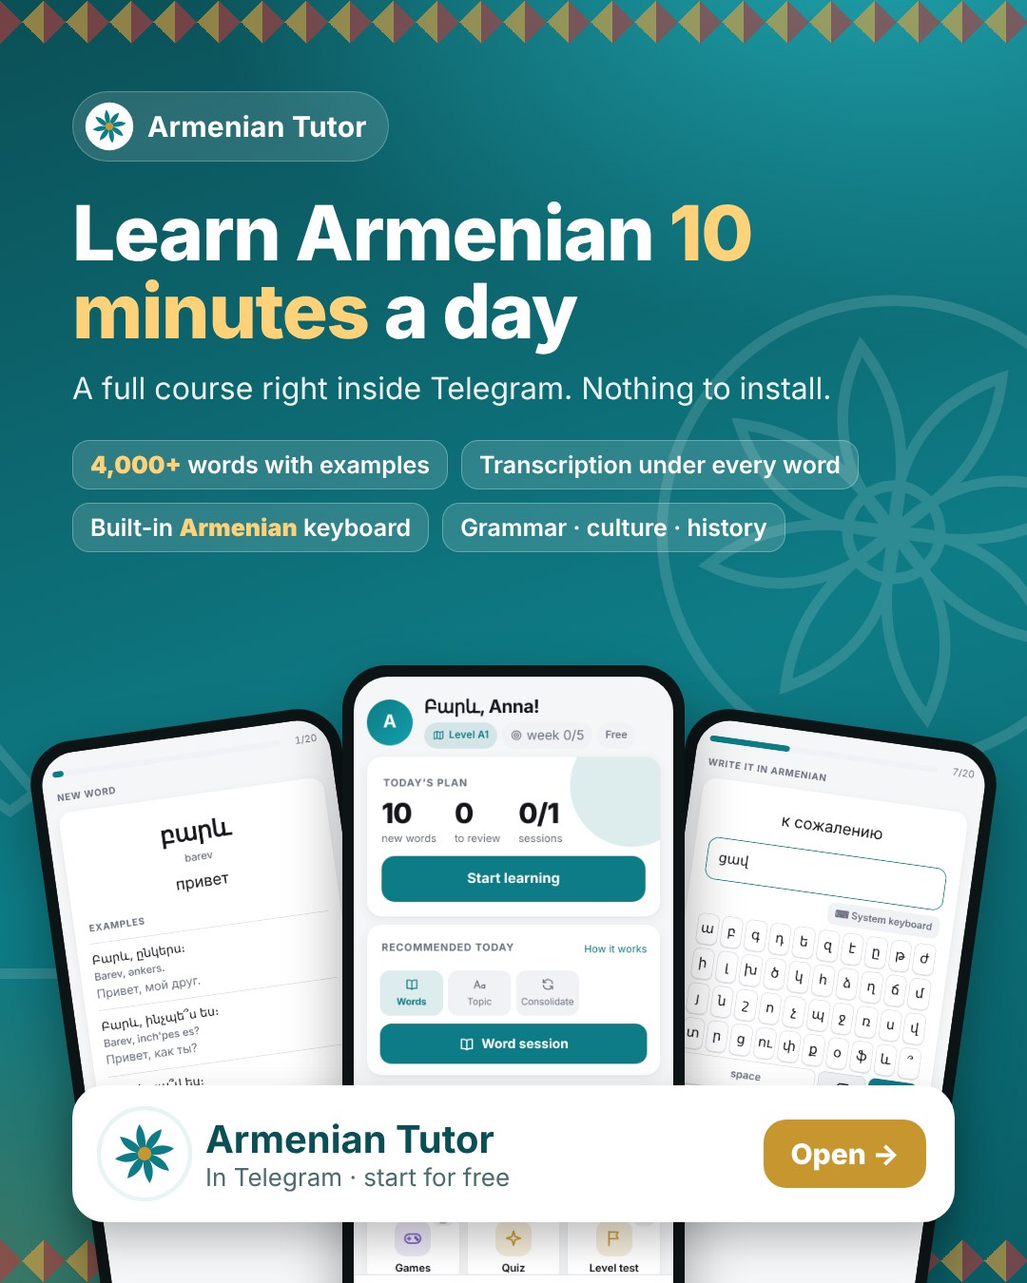
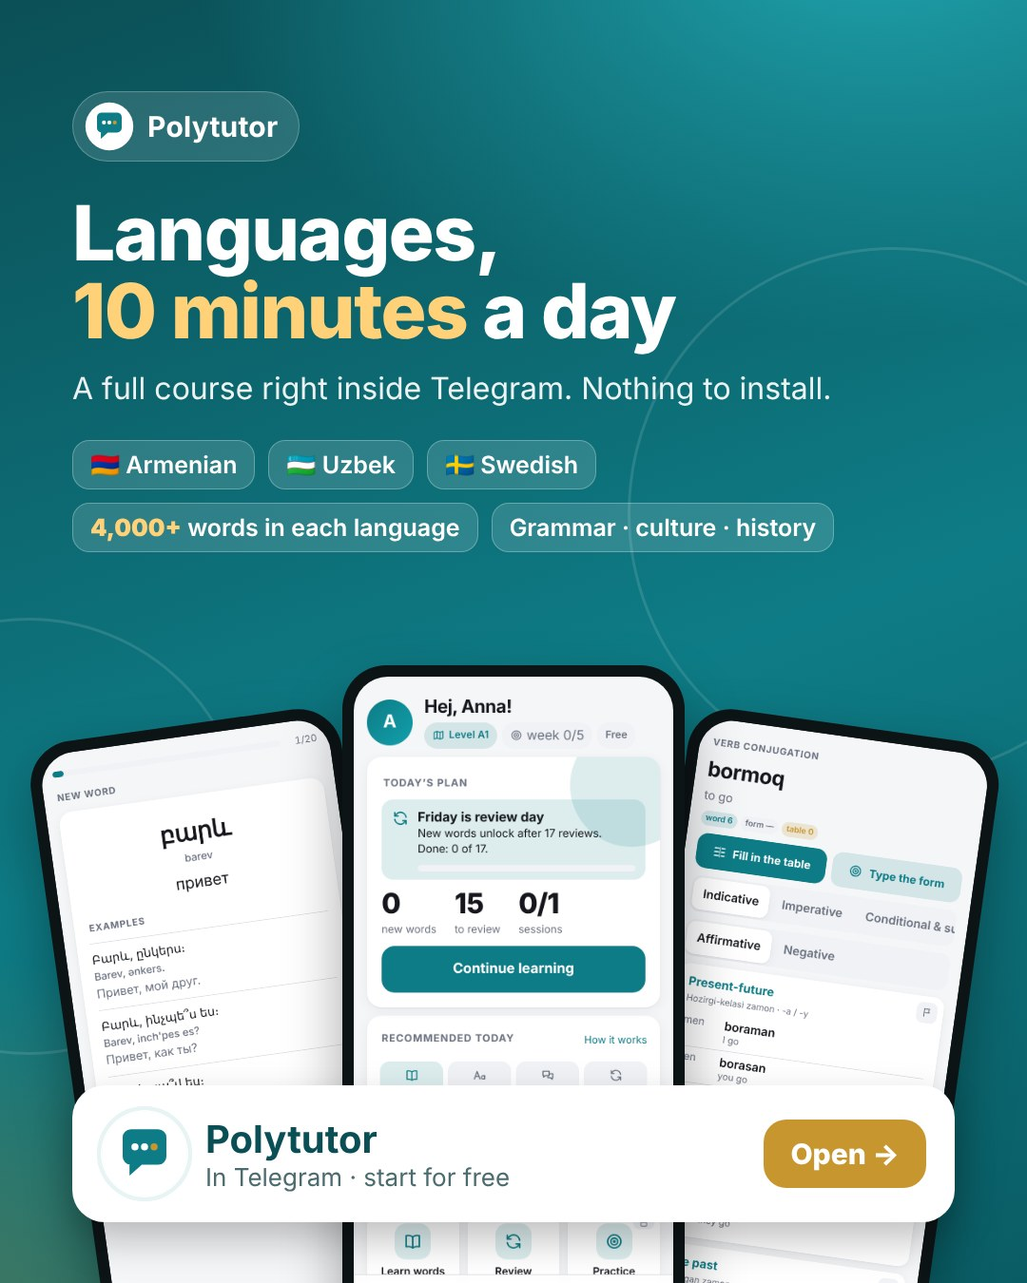
sv5

diff --git a/docs/promo/polytutor/promo.html b/docs/promo/polytutor/promo.html
@@ -1,0 +1,70 @@
+<!doctype html>
+<html><head><meta charset="utf-8">
+<style>
+  * { box-sizing: border-box; margin: 0; padding: 0; }
+  body { width: 1080px; height: var(--H); overflow: hidden; font-family: "Inter", "Segoe UI", system-ui, sans-serif, "Noto Color Emoji"; }
+  .bg { position: relative; width: 1080px; height: var(--H); overflow: hidden;
+    background: radial-gradient(1200px 700px at 85% -5%, #1fa3ad 0%, rgba(31,163,173,0) 60%),
+                radial-gradient(900px 700px at -10% 105%, #c8962e55 0%, rgba(200,150,46,0) 60%),
+                linear-gradient(160deg, #0b4f56 0%, #0e7c86 55%, #0a5c64 100%); color: #fff; }
+  .ring { position: absolute; border-radius: 50%; border: 3px solid rgba(255,255,255,.12); }
+  .head { position: absolute; left: 76px; right: 76px; top: 96px; }
+  .brand { display: inline-flex; align-items: center; gap: 14px; background: rgba(255,255,255,.13); border: 1px solid rgba(255,255,255,.25);
+    padding: 10px 22px 10px 12px; border-radius: 40px; font-weight: 700; font-size: 30px; letter-spacing: .2px; }
+  .brand .emblem { width: 52px; height: 52px; }
+  .cta .who { display: flex; align-items: center; gap: 18px; }
+  .cta .who .emblem { width: 92px; height: 92px; flex: none; filter: drop-shadow(0 0 0 #e8f3f4); box-shadow: 0 0 0 4px #e8f3f4; border-radius: 50%; }
+  h1 { font-size: 80px; line-height: 1.02; font-weight: 800; margin-top: 34px; letter-spacing: -1.5px; }
+  h1 em { font-style: normal; color: #ffd27a; }
+  .sub { font-size: 32px; opacity: .92; margin-top: 22px; line-height: 1.25; }
+  .chips { display: flex; flex-wrap: wrap; gap: 14px; margin-top: 34px; }
+  .chip { background: rgba(255,255,255,.14); border: 1px solid rgba(255,255,255,.28); border-radius: 18px; padding: 10px 18px; font-size: 25px; font-weight: 600; }
+  .chip b { color: #ffd27a; }
+  .phones { position: absolute; left: 0; right: 0; }
+  .phone { position: absolute; width: 330px; border-radius: 46px; background: #0d1416; padding: 12px; box-shadow: 0 30px 60px rgba(0,0,0,.35); }
+  .phone img { display: block; width: 100%; border-radius: 36px; }
+  .phone.l { transform: rotate(-8deg); } .phone.r { transform: rotate(8deg); } .phone.c { z-index: 2; width: 360px; }
+  .cta { z-index: 5; position: absolute; left: 76px; right: 76px; display: flex; align-items: center; justify-content: space-between; gap: 20px;
+    background: #fff; color: #0b4f56; border-radius: 34px; padding: 26px 30px; box-shadow: 0 18px 40px rgba(0,0,0,.25); }
+  .cta b { font-size: 40px; display: block; } .cta span { font-size: 26px; color: #4b6b6e; }
+  .cta .btn { background: #c8962e; color: #fff; font-weight: 800; font-size: 30px; padding: 18px 28px; border-radius: 24px; white-space: nowrap; }
+</style></head>
+<body>
+<div class="bg">
+  <div class="ring" style="right:-140px;top:260px;width:560px;height:560px"></div><div class="ring" style="left:-200px;bottom:240px;width:460px;height:460px"></div>
+  <div class="head">
+    <div class="brand"><svg class="emblem" viewBox="0 0 64 64"><circle cx="32" cy="32" r="31" fill="#fff"/><path fill="#0e7c86" d="M16 20a6 6 0 0 1 6-6h20a6 6 0 0 1 6 6v14a6 6 0 0 1-6 6H30l-9 8v-8h1a6 6 0 0 1-6-6z"/><circle cx="25" cy="27" r="2.6" fill="#fff"/><circle cx="32" cy="27" r="2.6" fill="#fff"/><circle cx="39" cy="27" r="2.6" fill="#c8962e"/></svg>Polytutor</div>
+    <h1 id="h1"></h1>
+    <div class="sub" id="sub"></div>
+    <div class="chips" id="chips"></div>
+  </div>
+  <div class="phones" id="phones">
+    <div class="phone l" style="left:70px"><img data-src="left"></div>
+    <div class="phone c" style="left:360px"><img data-src="center"></div>
+    <div class="phone r" style="left:680px"><img data-src="right"></div>
+  </div>
+  <div class="cta" id="cta"><div class="who"><svg class="emblem big" viewBox="0 0 64 64"><circle cx="32" cy="32" r="31" fill="#fff"/><path fill="#0e7c86" d="M16 20a6 6 0 0 1 6-6h20a6 6 0 0 1 6 6v14a6 6 0 0 1-6 6H30l-9 8v-8h1a6 6 0 0 1-6-6z"/><circle cx="25" cy="27" r="2.6" fill="#fff"/><circle cx="32" cy="27" r="2.6" fill="#fff"/><circle cx="39" cy="27" r="2.6" fill="#c8962e"/></svg><div><b id="cta1"></b><span id="cta2"></span></div></div><div class="btn" id="cta3"></div></div>
+</div>
+<script>
+  const T = {
+    ru: { h1: 'Языки — <em>по&nbsp;10&nbsp;минут</em><br>в&nbsp;день', sub: 'Самоучитель прямо в Telegram. Ничего не нужно устанавливать.',
+      chips: ['🇦🇲 Армянский', '🇺🇿 Узбекский', '🇸🇪 Шведский', '<b>4 000+</b> слов в каждом языке', 'Грамматика · культура · история'],
+      cta1: 'Polytutor', cta2: 'В Telegram · начать можно бесплатно', cta3: 'Открыть →' },
+    en: { h1: 'Languages,<br><em>10&nbsp;minutes</em> a&nbsp;day', sub: 'A full course right inside Telegram. Nothing to install.',
+      chips: ['🇦🇲 Armenian', '🇺🇿 Uzbek', '🇸🇪 Swedish', '<b>4,000+</b> words in each language', 'Grammar · culture · history'],
+      cta1: 'Polytutor', cta2: 'In Telegram · start for free', cta3: 'Open →' },
+  };
+  const q = new URLSearchParams(location.search);
+  const L = T[q.get('lang') || 'ru']; const H = Number(q.get('h') || 1350);
+  document.documentElement.style.setProperty('--H', H + 'px');
+  h1.innerHTML = L.h1; sub.textContent = L.sub; chips.innerHTML = L.chips.map((c) => `<span class="chip">${c}</span>`).join('');
+  cta1.textContent = L.cta1; cta2.textContent = L.cta2; cta3.textContent = L.cta3;
+  // раскладка: телефоны и кнопка — по высоте кадра
+  document.querySelectorAll('img[data-src]').forEach((i) => { i.src = i.dataset.src + (q.get('lang') === 'en' ? '-en' : '') + '.png'; });
+  const story = H > 1500;
+  phones.style.top = (story ? 860 : 700) + 'px';
+  document.querySelectorAll('.phone').forEach((p) => { if (!p.classList.contains('c')) p.style.top = '60px'; });
+  cta.style.bottom = (story ? 150 : 64) + 'px';
+  if (story) { document.querySelector('.head').style.top = '190px'; }
+</script>
+</body></html>

diff --git a/supabase/functions/telegram-bot/index.ts b/supabase/functions/telegram-bot/index.ts
@@ -185,6 +185,20 @@ const GROUP_NOTE: Record<Lang, string> = {
   sv: "Grupp: en prenumeration till dig och 2 koder till vänner.",
   en: "Group: your plan plus 2 codes for friends.",
 };
+// Подписка «Все языки» (тариф с all_langs = true)
+const ALL_NOTE: Record<Lang, string> = {
+  ru: "Все языки: подписка действует во всех языках приложения.",
+  hy: "Բոլոր լեզուները՝ բաժանորդագրությունը գործում է հավելվածի բոլոր լեզուներում։",
+  uz: "Barcha tillar: obuna ilovadagi barcha tillarda amal qiladi.",
+  sv: "Alla språk: prenumerationen gäller i alla appens språk.",
+  en: "All languages: the plan works in every language of the app.",
+};
+async function planIsAllLangs(db: any, planId: number): Promise<boolean> {
+  if (!Number.isInteger(planId)) return false;
+  const { data } = await db.from("plans").select("all_langs").eq("id", planId).maybeSingle();
+  return data?.all_langs === true;
+}
+
 // Групповая подписка отменена возвратом через Telegram → предложение личного тарифа
 const GROUP_ENDED: Record<Lang, (tier: string, months: number, stars: number) => string> = {
   ru: (tier, m, st) => `Групповая подписка отменена: за неё был оформлен возврат звёзд, поэтому доступ по ней закрыт.\n\nЧтобы продолжить, оформите личную подписку «${tier}» на ${m} мес. — ${st} ⭐ (Настройки → Подписка).`,
@@ -377,11 +391,12 @@ async function createInvoice(req: Request, token: string): Promise<Response> {
   const lang: Lang = asLang(plan.ui_lang);
   const t = TEXT[lang];
   const group = Number(plan.seats) > 1;
-  const title = (t.invoiceTitle(plan.tier, plan.months) + (group ? " ×3" : "")).slice(0, 32);
+  const allLangs = await planIsAllLangs(db, planId);
+  const title = (t.invoiceTitle(plan.tier, plan.months) + (group ? " ×3" : "") + (allLangs ? " 🌍" : "")).slice(0, 32);
   const couponNote = plan.coupons > 0 ? COUPON_NOTE[lang](plan.coupons) + " " : "";
   const res = await tgApi(token, "createInvoiceLink", {
     title,
-    description: (couponNote + (group ? GROUP_NOTE[lang] + " " : "") + t.invoiceDesc(plan.tier, plan.months)).slice(0, 255),
+    description: (couponNote + (group ? GROUP_NOTE[lang] + " " : "") + (allLangs ? ALL_NOTE[lang] + " " : "") + t.invoiceDesc(plan.tier, plan.months)).slice(0, 255),
     payload: `${schema}|` + (plan.coupons > 0 ? `p:${plan.plan_id}:${auth.user.id}:${plan.coupons}` : `p:${plan.plan_id}:${auth.user.id}`),
     currency: "XTR",
     prices: [{ label: title, amount: plan.stars }],
@@ -468,7 +483,9 @@ async function onPaid(token: string, msg: any): Promise<void> {
   }
   if (data.duplicate) return;
   const codes: string[] = Array.isArray(data.codes) ? data.codes : [];
+  const allLangs = await planIsAllLangs(db, Number(payload.split(":")[1]));
   await tgCall(token, "sendMessage", { chat_id: msg.chat.id, text: t.paid(data.tier, formatDate(data.ends_at, lang, courseOf(schema).tz))
+    + (allLangs ? `\n${ALL_NOTE[lang]}` : "")
     + (codes.length ? `\n\n${GROUP_CODES[lang]}\n${codes.join("\n")}` : "") });
   // автору реферальной ссылки — сообщение о купоне
   if (data.referrer?.tg_id) {

diff --git a/app/src/screens/subscription.js b/app/src/screens/subscription.js
@@ -18,23 +18,29 @@ export async function renderSubscription(app, params = {}) {
   const next = (queue || []).filter((q) => q.tier !== me.tier);
   let tier = params.tier || (me.tier === 'advanced' ? 'advanced' : me.tier === 'basic' ? 'basic' : 'basic');
   let months = params.months || 3;
-  let seats = params.seats || 1;            // 1 — для себя, 3 — группа из трёх человек (−15%)
+  // для себя (один язык) · все языки · группа из трёх человек (−15%)
+  let mode = params.mode || (params.seats === 3 ? 'group' : 'me');
+  const hasAll = plans.some((p) => p.all_langs);
+  if (mode === 'all' && !hasAll) mode = 'me';
 
   const fmt = (n) => Number(n).toLocaleString('ru-RU');
   const status = h('p', { class: 'small' });
 
   let drawn = false;
   const draw = () => {
-    const list = plans.filter((p) => p.tier === tier && (p.seats || 1) === seats).sort((a, b) => a.months - b.months);
-    const monthly = plans.find((p) => p.tier === tier && (p.seats || 1) === 1 && p.months === 1);
+    const seats = mode === 'group' ? 3 : 1;
+    const all = mode === 'all';
+    const list = plans.filter((p) => p.tier === tier && (p.seats || 1) === seats && !!p.all_langs === all).sort((a, b) => a.months - b.months);
+    const monthly = plans.find((p) => p.tier === tier && (p.seats || 1) === 1 && !!p.all_langs === all && p.months === 1);
     let chosen = list.find((p) => p.months === months) || list[0];
     if (chosen) months = chosen.months;
 
     const tierSeg = h('div', { class: 'segmented' }, ['basic', 'advanced'].map((tr) =>
       h('button', { type: 'button', class: tr === tier ? 'active' : '', onClick: () => { tier = tr; haptic(); draw(); } }, tierName(tr))));
 
-    const seatSeg = h('div', { class: 'segmented' }, [[1, t('forMe')], [3, t('forGroup')]].map(([v, l]) =>
-      h('button', { type: 'button', class: v === seats ? 'active' : '', onClick: () => { seats = v; haptic(); draw(); } }, l)));
+    const modes = [['me', t('forMe')], ...(hasAll ? [['all', t('forAllLangs')]] : []), ['group', t('forGroup')]];
+    const seatSeg = h('div', { class: 'segmented' }, modes.map(([v, l]) =>
+      h('button', { type: 'button', class: v === mode ? 'active' : '', onClick: () => { mode = v; haptic(); draw(); } }, l)));
 
     const features = h('ul', { class: 'feature-list' }, (t(tier === 'basic' ? 'featBasic' : 'featAdvanced') || []).map((f) =>
       h('li', {}, icon('check'), h('span', {}, f))));
@@ -81,6 +87,7 @@ export async function renderSubscription(app, params = {}) {
       tierSeg,
       seatSeg,
       seats > 1 ? h('p', { class: 'small muted' }, t('groupHint')) : null,
+      all ? h('p', { class: 'small muted' }, t('allLangsHint')) : null,
       h('div', { class: 'card' }, features),
       options,
       couponBox,
@@ -133,7 +140,7 @@ export async function renderSubscription(app, params = {}) {
           const fresh = await rpc('get_me').catch(() => null);
           if (fresh && (fresh.tier !== me.tier || fresh.tier_ends_at !== before)) break;
         }
-        renderSubscription(app, { tier, months, seats, useCoupons });
+        renderSubscription(app, { tier, months, mode, useCoupons });
       } else if (result === 'failed') {
         haptic('error');
         status.textContent = `${t('payError')} ${t('payFailedHint')}`;

diff --git a/app/src/style.css b/app/src/style.css
@@ -181,6 +181,7 @@ button { font: inherit; color: inherit; cursor: pointer; }
 .btn-ghost { background: transparent; color: var(--accent); padding: 10px; }
 .btn-small { width: auto; display: inline-flex; padding: 8px 14px; font-size: 14px; margin: 0; border-radius: 11px; }
 .btn .ic { width: 20px; height: 20px; }
+.btn { text-align: center; }
 
 .chip {
   display: inline-flex; align-items: center; gap: 5px; font-size: 12.5px; padding: 4px 10px; border-radius: 999px;
@@ -357,9 +358,10 @@ button { font: inherit; color: inherit; cursor: pointer; }
 /* крестик «закрыть» — всегда виден, даже в длинной шторке */
 .sheet-close {
   position: sticky; top: 0; float: right; z-index: 2; width: 34px; height: 34px; margin: -2px -6px 0 0;
-  border: 0; border-radius: 50%; background: var(--line); color: var(--text); font-size: 22px; line-height: 34px;
-  cursor: pointer;
+  border: 0; border-radius: 50%; background: var(--line); color: var(--text); padding: 0;
+  display: grid; place-items: center; cursor: pointer;
 }
+.sheet-close .ic { width: 18px; height: 18px; stroke-width: 2.2; }
 .sheet-grip { width: 40px; height: 5px; border-radius: 9px; background: var(--line); margin: 0 auto 14px; }
 @keyframes sheet-up { from { transform: translateY(40px); opacity: .6; } to { transform: none; opacity: 1; } }
 
@@ -604,7 +606,7 @@ tr:last-child td { border-bottom: 0; }
 .course-head h1 { margin: 0; }
 .unit-list { display: grid; gap: 10px; }
 .unit-card {
-  display: grid; grid-template-columns: 40px 1fr 18px; gap: 12px; align-items: start; width: 100%; text-align: left; border: 0;
+  display: grid; grid-template-columns: 40px 1fr 18px; gap: 12px; align-items: center; width: 100%; text-align: left; border: 0;
   background: var(--surface); border-radius: 18px; padding: 14px; box-shadow: var(--shadow);
 }
 .unit-card .chev { width: 18px; height: 18px; color: var(--muted); align-self: center; }
@@ -769,6 +771,8 @@ mark { background: var(--gold-soft); color: inherit; border-radius: 4px; padding
 .lvl-pill.empty { background: var(--surface-2); color: var(--muted); }
 .two-btns { display: grid; grid-template-columns: 1fr 1fr; gap: 8px; margin: 10px 0; }
 .two-btns .btn { margin: 0; font-size: 15px; padding-left: 8px; padding-right: 8px; }
+/* в половине ширины текст переносится: значок над текстом, всё по центру */
+.two-btns .btn { flex-direction: column; gap: 4px; line-height: 1.2; }
 .center-text { text-align: center; }
 .conj-card { position: relative; }
 .conj-cell { display: flex; flex-direction: column; min-width: 0; }
@@ -918,5 +922,6 @@ mark { background: var(--gold-soft); color: inherit; border-radius: 4px; padding
 .sa-row + .sa-row { border-top: 1px solid var(--line); }
 
 /* изучаемый язык: флаг вместо значка */
-.tile-icon.lang-flag { font-size: 22px; line-height: 1; }
+.tile-icon.lang-flag { font-size: 22px; line-height: 1; overflow: hidden; border-radius: 50%; padding: 0; }
+.lang-ava { width: 100%; height: 100%; object-fit: cover; display: block; }
 .sub-card.active { outline: 2px solid var(--accent); outline-offset: -2px; }

diff --git a/app/src/screens/settings.js b/app/src/screens/settings.js
@@ -23,6 +23,15 @@ const INTENSITY = {
   intense: { session_size: 60, new_max: 30 },
 };
 
+// Персонаж языка (avatars/<код>.jpg в корне сайта); если картинки нет — флаг
+function langAvatar(l) {
+  const box = h('span', { class: 'tile-icon lang-flag' });
+  const img = h('img', { class: 'lang-ava', alt: l.flag || '', src: `../avatars/${l.code}.jpg`,
+    onError: () => { img.remove(); box.textContent = l.flag || '🌐'; } });
+  box.append(img);
+  return box;
+}
+
 export async function renderSettings(app, params = {}) {
   // после изменения настройки — перерисовка на месте: без экрана загрузки и без прокрутки наверх
   const keep = Boolean(params.keep && app.me);
@@ -55,7 +64,7 @@ export async function renderSettings(app, params = {}) {
     h('p', { class: 'small muted' }, t('courseLangSheet')),
     ...LANGS.map((l) => h('button', { class: `card sub-card ${l.code === LANG.code ? 'active' : ''}`, type: 'button',
       onClick: () => { if (l.code !== LANG.code) { haptic('success'); switchLang(l.code); } } },
-      h('span', { class: 'tile-icon lang-flag' }, l.flag || '🌐'),
+      langAvatar(l),
       h('div', {}, h('b', {}, langName(l, ui)), h('div', { class: 'small muted' }, l.code === LANG.code ? `${l.name.native} · ${t('courseLangCurrent')}` : l.name.native)),
       l.code === LANG.code ? icon('check', 'ic chev') : icon('chevron', 'ic chev'))));
   };
@@ -66,7 +75,7 @@ export async function renderSettings(app, params = {}) {
     LANGS.length > 1 ? [
       h('h2', {}, t('courseLang')),
       h('button', { class: 'card sub-card', type: 'button', onClick: courseLangSheet },
-        h('span', { class: 'tile-icon lang-flag' }, LANG.flag || '🌐'),
+        langAvatar(LANG),
         h('div', {}, h('b', {}, langName(LANG, ui)), h('div', { class: 'small muted' }, LANG.name.native)),
         icon('chevron', 'ic chev'))] : null,
 

diff --git a/app/root/index.html b/app/root/index.html
@@ -17,12 +17,13 @@
       h1 { font-size: 22px; margin: 8px 0 4px; }
       p { margin: 0 0 18px; color: var(--tg-theme-hint-color, #6b7280); }
       button {
-        display: grid; grid-template-columns: 44px 1fr; gap: 12px; align-items: center; width: 100%;
+        display: grid; grid-template-columns: 56px 1fr; gap: 14px; align-items: center; width: 100%;
         margin: 0 0 10px; padding: 12px 14px; border: 0; border-radius: 16px; text-align: left; font: inherit;
         background: var(--tg-theme-bg-color, #fff); color: inherit; cursor: pointer;
       }
       button:active { transform: scale(.98); }
       .flag { font-size: 28px; line-height: 1; text-align: center; }
+      .ava { width: 56px; height: 56px; border-radius: 50%; display: block; object-fit: cover; }
       .native { font-size: 14px; color: var(--tg-theme-hint-color, #6b7280); }
       .wait { text-align: center; padding-top: 30vh; color: var(--tg-theme-hint-color, #6b7280); }
     </style>
@@ -56,7 +57,8 @@
           var p = document.createElement('p'); p.textContent = tt.sub; root.appendChild(p);
           langs.forEach(function (l) {
             var b = document.createElement('button'); b.type = 'button';
-            var f = document.createElement('span'); f.className = 'flag'; f.textContent = l.flag || '🌐';
+            var f = document.createElement('img'); f.className = 'ava'; f.alt = l.flag || ''; f.src = 'avatars/' + l.code + '.jpg';
+            f.onerror = function () { var s = document.createElement('span'); s.className = 'flag'; s.textContent = l.flag || '🌐'; f.replaceWith(s); };
             var d = document.createElement('div');
             var n = document.createElement('b'); n.textContent = nameOf(l);
             var nn = document.createElement('div'); nn.className = 'native'; nn.textContent = l.name ? l.name.native : '';

diff --git a/app/src/i18n.js b/app/src/i18n.js
@@ -1610,6 +1610,20 @@ Object.assign(en, {
   annSeen: (n) => `seen: ${n}`, annScopeAll: 'to all languages', annModalTitle: 'Message',
 });
 
+// ---------------------------------------------------------------- подписка «Все языки»
+Object.assign(ru, {
+  forAllLangs: 'Все языки',
+  allLangsHint: 'Подписка действует во всех языках приложения — и в тех, что вы начнёте позже. Срок в каждом языке считается отдельно: если там уже есть подписка, новая начнётся после неё.',
+});
+Object.assign(uz, {
+  forAllLangs: 'Barcha tillar',
+  allLangsHint: 'Obuna ilovadagi barcha tillarda amal qiladi — keyinroq boshlaganlaringizda ham. Har bir tilda muddat alohida hisoblanadi: u yerda obuna boʻlsa, yangisi undan keyin boshlanadi.',
+});
+Object.assign(en, {
+  forAllLangs: 'All languages',
+  allLangsHint: 'The plan works in every language of the app — including ones you start later. Each language counts its own term: if you already have a plan there, the new one starts after it.',
+});
+
 const dict = { ru, uz, hy, sv, en };
 // тексты, которые зависят от изучаемого языка (lang/i18n-lang.js), — поверх общих
 for (const [l, o] of Object.entries(OVERRIDES)) if (dict[l]) Object.assign(dict[l], o);

diff --git a/app/src/i18n-hy.js b/app/src/i18n-hy.js
@@ -549,3 +549,9 @@ Object.assign(hy, {
   annActive: 'ցուցադրվում է', annHidden: 'թաքցված է', annHide: 'Թաքցնել', annShow: 'Կրկին ցուցադրել',
   annSeen: (n) => `տեսել են՝ ${n}`, annScopeAll: 'բոլոր լեզուներին', annModalTitle: 'Հաղորդագրություն',
 });
+
+// ---------------------------------------------------------------- подписка «Все языки»
+Object.assign(hy, {
+  forAllLangs: 'Բոլոր լեզուները',
+  allLangsHint: 'Բաժանորդագրությունը գործում է հավելվածի բոլոր լեզուներում՝ նաև նրանցում, որոնք կսկսեք ավելի ուշ։ Յուրաքանչյուր լեզվում ժամկետը հաշվվում է առանձին. եթե այնտեղ արդեն բաժանորդագրություն կա, նորը կսկսվի դրանից հետո։',
+});

diff --git a/app/src/i18n-sv.js b/app/src/i18n-sv.js
@@ -687,3 +687,9 @@ Object.assign(sv, {
   annActive: 'visas', annHidden: 'dolt', annHide: 'Dölj', annShow: 'Visa igen',
   annSeen: (n) => `har sett: ${n}`, annScopeAll: 'till alla språk', annModalTitle: 'Meddelande',
 });
+
+// ---------------------------------------------------------------- подписка «Все языки»
+Object.assign(sv, {
+  forAllLangs: 'Alla språk',
+  allLangsHint: 'Prenumerationen gäller i alla appens språk – även i dem du börjar med senare. Tiden räknas separat i varje språk: finns det redan en prenumeration där börjar den nya efter den.',
+});

diff --git a/app/src/ui.js b/app/src/ui.js
@@ -87,7 +87,7 @@ export function sheet(...content) {
   };
   back.addEventListener('click', (e) => { if (e.target === back) close(); });
   back.append(h('div', { class: 'sheet' },
-    h('button', { class: 'sheet-close', type: 'button', 'aria-label': '×', onClick: close }, '×'),
+    h('button', { class: 'sheet-close', type: 'button', 'aria-label': '×', onClick: close }, icon('close')),
     h('div', { class: 'sheet-grip' }), ...content));
   document.body.append(back);
   openSheets.push(close);
